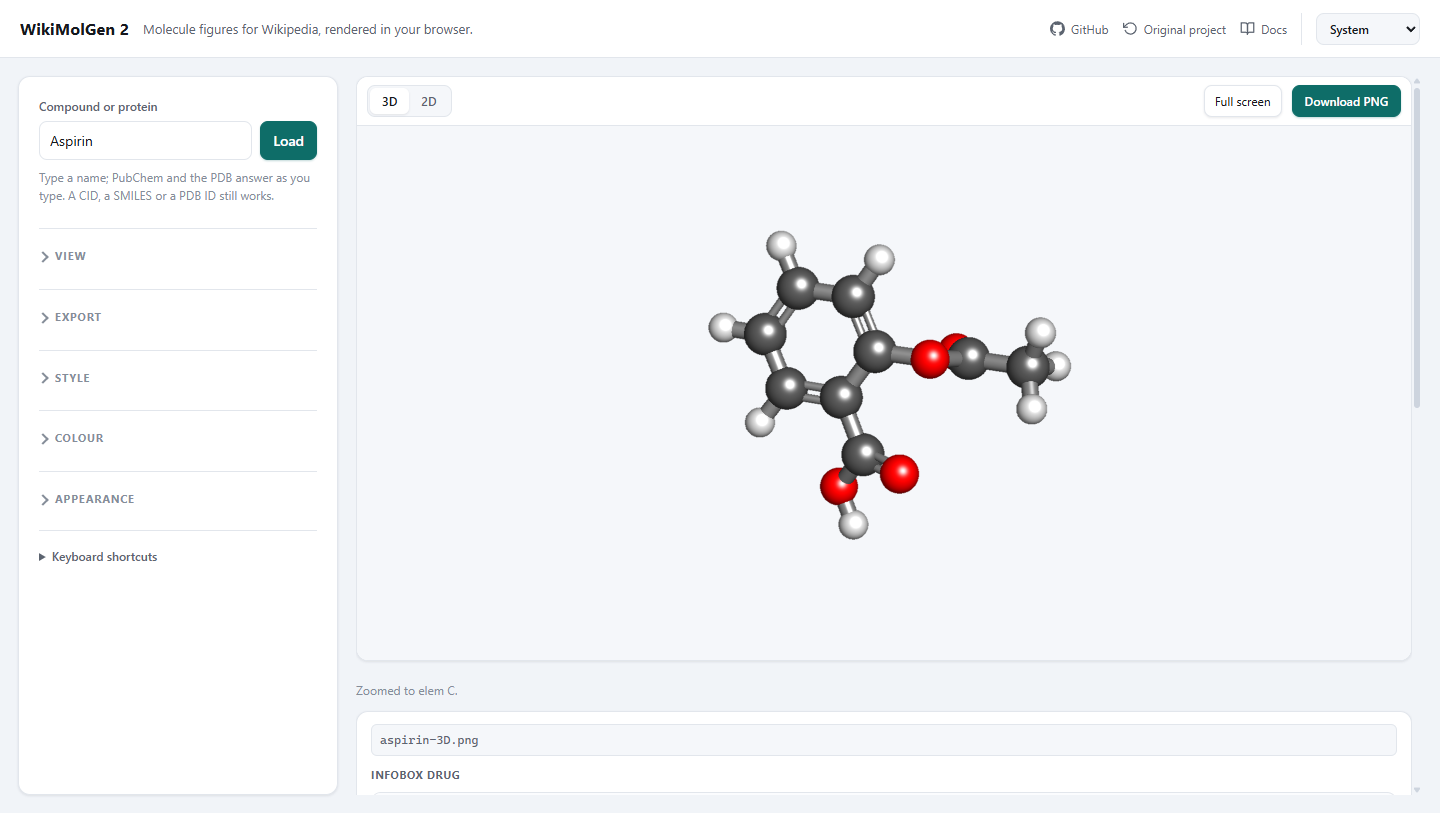
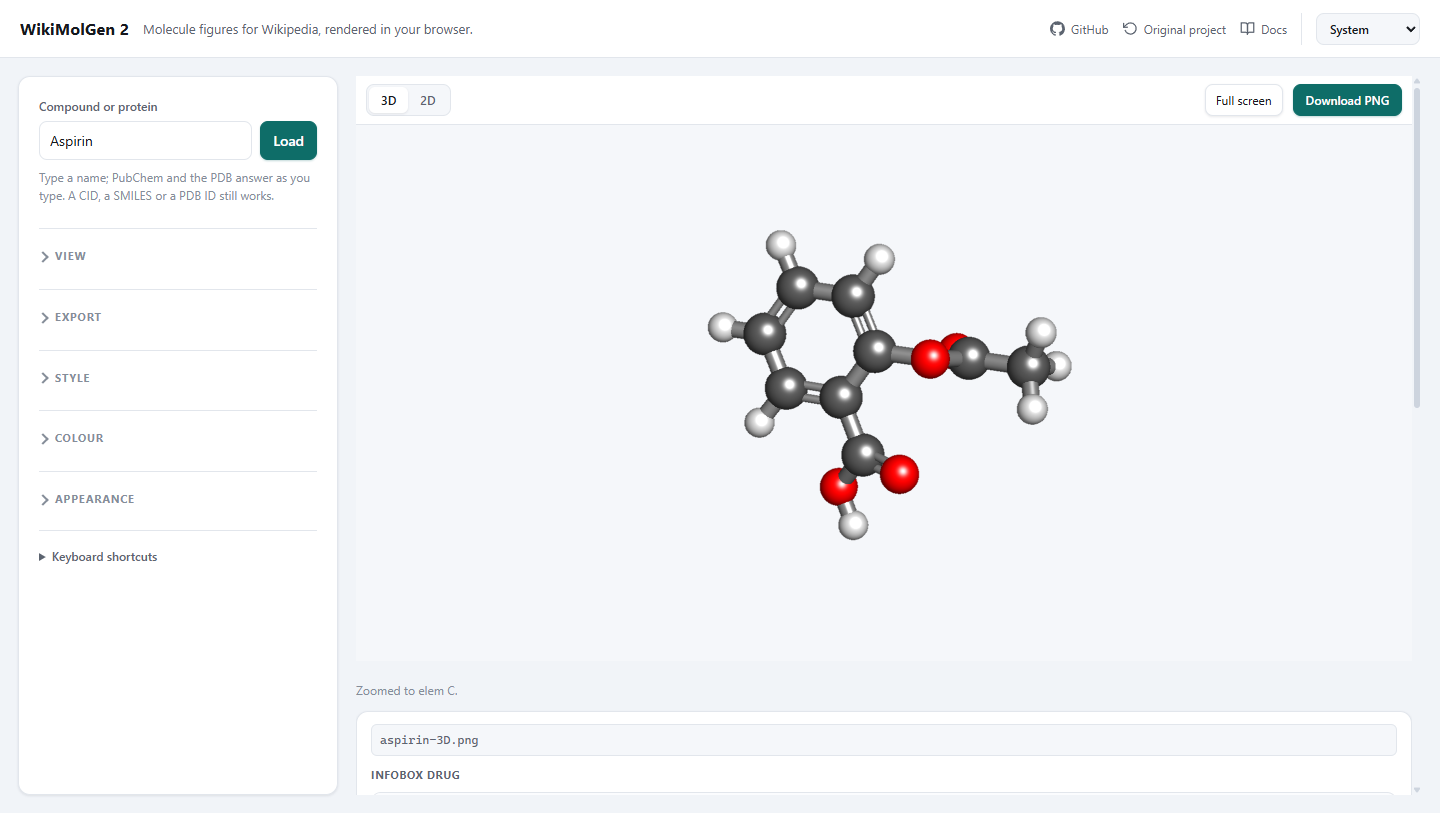
Remove the frame around the stage

Changed region(s): [[0.8438, 0.0923, 0.9688, 0.1538], [0.25, 0.0923, 0.3125, 0.1538]]

diff --git a/web/src/stage.css b/web/src/stage.css
@@ -5,11 +5,8 @@
   display: flex;
   flex-direction: column;
   min-height: 0;
-  border: 1px solid var(--line);
-  border-radius: var(--radius);
   overflow: hidden;
   background: var(--surface);
-  box-shadow: var(--shadow-1);
 }
 
 /* Full screen: the stage is the fullscreen element, so the card styling drops away and
